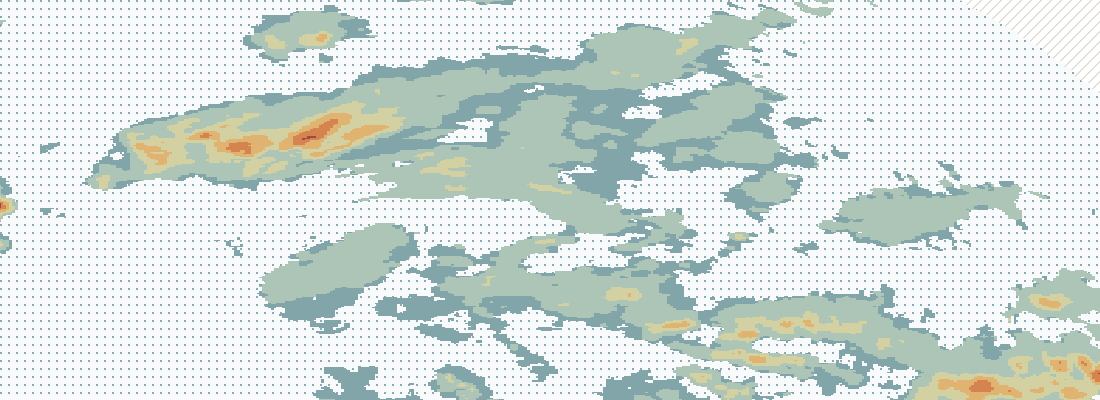
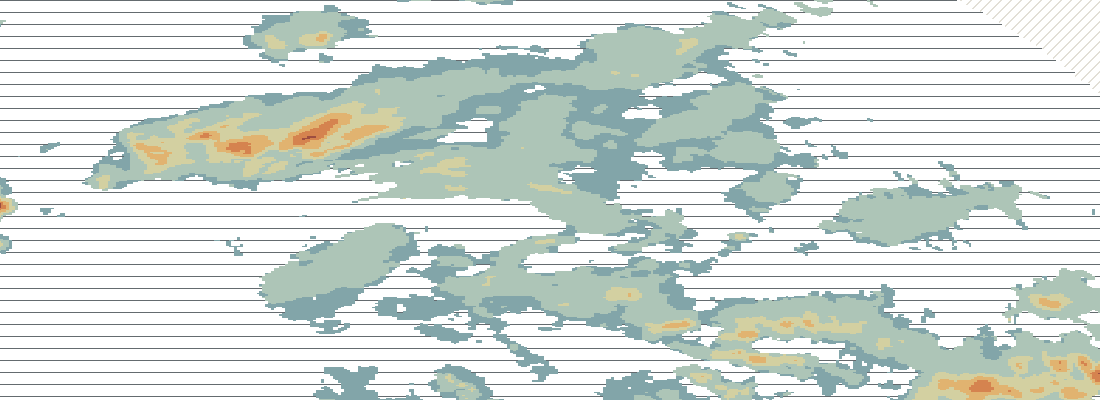
Refine weather map provenance, patterns and accessible inspection

diff --git a/docs/specimens/coastal-watch/source-notebook/index.html b/docs/specimens/coastal-watch/source-notebook/index.html
@@ -40,30 +40,33 @@
 <p id="cw-loading" role="status">Opening the saved weather passage…</p><button type="button" id="cw-retry" hidden>Try opening the passage again ↗</button>
 <div id="cw-workbench" hidden>
 <div class="cw-topline"><span class="cs-label">GULF OF FINLAND / A SAVED DAY</span><span id="cw-availability">Reading the archive coverage</span><span class="cw-live-label">ARCHIVE / NOT LIVE</span></div>
+<div class="cw-controls"><div class="cw-playback"><button type="button" id="cw-play" aria-pressed="false">Play the day <span aria-hidden="true">▶</span></button><button type="button" id="cw-back" aria-label="Back ten minutes">←</button><button type="button" id="cw-next" aria-label="Forward ten minutes">→</button></div><div class="cw-time-control"><div><label for="cw-second">Move through 11 November</label><span class="cw-clock-pair"><span id="cw-control-local" aria-hidden="true">12:00:06 EET</span><output id="cw-utc" for="cw-second" aria-live="off">10:00:06 UTC</output></span></div><input id="cw-second" type="range" min="0" max="86399" step="1" value="43206"><div class="cw-axis" aria-hidden="true"><span>00</span><span>06</span><span>12</span><span>18</span><span>24 EET</span></div></div></div>
+<div class="cw-coverage" aria-label="Coverage of the saved day"><div><span>Clouds <small>10 min</small></span><svg id="cw-cloud-ribbon" viewBox="0 0 1000 20" role="img" aria-label="Saved cloud product slots across the day"></svg></div><div><span>Radar <small>saved strip</small></span><svg id="cw-radar-ribbon" viewBox="0 0 1000 20" role="img" aria-label="Saved Estonian radar coverage"></svg></div><div><span>Buoy <small>hourly samples</small></span><svg id="cw-buoy-ribbon" viewBox="0 0 1000 20" role="img" aria-label="Selected buoy sample coverage, including gaps"></svg></div></div>
+<div class="cw-waypoints"><p id="cw-play-status" role="status">Saved frames. No interpolation.</p><button type="button" id="cw-radar-jump">Enter the radar strip ↗</button><button type="button" id="cw-gap-jump">Find a buoy gap ↗</button></div>
 <div class="cw-sky" id="cw-sky">
 <svg id="cw-cloud-map" viewBox="0 0 1100 400" role="img" aria-labelledby="cw-map-title cw-map-desc"><title id="cw-map-title">Clouds, estimated rain and buoy conditions above the Gulf of Finland</title><desc id="cw-map-desc">Three separately timed source records. Radar placement is inferred from source corners and Mercator projection. Not surveyed, not a navigation chart.</desc></svg>
 <div class="cw-sky-top"><span id="cw-cloud-stamp">EUMETSAT / PRODUCT TIME</span><span id="cw-map-rain-stamp">RAIN / PRODUCT END LABEL</span></div>
 <div class="cw-sky-bottom"><div><span class="cs-label">BROWSE TIME / HELSINKI</span><p class="cw-time"><output id="cw-local" for="cw-second" aria-live="off">12:00</output><span id="cw-local-seconds">:06 EET</span></p></div><div class="cw-cloud-caption"><p id="cw-cloud-age"></p><p>Pixel acquisition times remain unknown.</p></div></div>
 </div>
 <div class="cw-scene-message cw-cloud-alert" id="cw-cloud-message" role="status" hidden><p id="cw-cloud-message-title">Cloud frame unavailable.</p><span id="cw-cloud-message-detail"></span><button type="button" id="cw-cloud-retry" hidden>Try this saved frame again ↗</button></div>
-<div class="cw-map-toolbar"><div class="cw-layer-buttons" role="group" aria-label="Weather map layers"><button id="cw-layer-clouds" type="button" aria-pressed="true">Clouds</button><button id="cw-layer-rain" type="button" aria-pressed="true">Rain</button><button id="cw-layer-buoys" type="button" aria-pressed="true">Buoys</button></div><label class="cw-opacity" for="cw-rain-opacity">Rain opacity <output id="cw-opacity-value" for="cw-rain-opacity">85%</output><input id="cw-rain-opacity" type="range" min="10" max="100" step="5" value="85"></label><button id="cw-map-inspect" type="button" aria-pressed="false">Inspect a place ↗</button></div>
+<div class="cw-map-toolbar"><div class="cw-layer-buttons" role="group" aria-label="Weather map layers"><button id="cw-layer-clouds" type="button" aria-pressed="true">Clouds</button><button id="cw-layer-rain" type="button" aria-pressed="true">Rain</button><button id="cw-layer-buoys" type="button" aria-pressed="true">Buoys</button></div><label class="cw-opacity" for="cw-rain-opacity">Rain opacity <output id="cw-opacity-value" for="cw-rain-opacity">85%</output><input id="cw-rain-opacity" type="range" min="10" max="100" step="5" value="85"></label><button id="cw-map-inspect" type="button" aria-pressed="false">Inspect a place ↗</button><button id="cw-map-strip-play" type="button" aria-pressed="false">Play the rain strip ▶</button></div>
 <div class="cw-map-rate"><p>RADAR ESTIMATE / mm/h<br><span>Positive cells · nearest native sample</span></p><div class="cw-rate-scale" role="img" aria-label="Rain-rate colour classes in mm/h: greater than zero to 0.05, to 0.2, to 0.5, to 1, to 2, to 5, and greater than 5. Opacity blends these display colours with the cloud image; inspect the cell for its numeric estimate."><span>≤0.05</span><span>≤0.2</span><span>≤0.5</span><span>≤1</span><span>≤2</span><span>≤5</span><span>&gt;5</span></div></div>
 <div class="cw-map-clocks" role="group" aria-label="Separate clocks on the shared map"><p><span>01 / CLOUD PRODUCT</span><strong id="cw-map-cloud-clock">Opening</strong><small id="cw-map-cloud-state">Pixel acquisition unknown</small></p><p><span>02 / RAIN PRODUCT END</span><strong id="cw-map-radar-clock">Opening</strong><small id="cw-map-radar-state">Placement inferred · sweep unknown</small></p><p><span>03 / BUOY SAMPLE</span><strong id="cw-map-buoy-clock">Opening</strong><small id="cw-map-buoy-state">Hourly sample · spaces unmeasured</small></p></div>
-<p id="cw-map-status" class="cw-map-notice" role="status">Opening the saved rain layer. Every source keeps its own clock.</p>
-<div class="cw-map-inspection" id="cw-map-inspection" hidden><div><p class="cs-label">APPROXIMATE SOURCE CELL / NOT A POINT MEASUREMENT</p><p id="cw-map-cell-value" role="status" aria-live="polite">Choose a place on the map or use the native row and column controls below.</p><p id="cw-map-cell-context" class="cs-small"></p><p id="cw-map-cell-position" class="cs-small"></p></div><div><button type="button" id="cw-placement-compare" aria-pressed="false">Show alternative placement ↗</button><p class="cs-small">Solid cross: corner-anchored Mercator. Open circle: the agency’s PlateCarree example for the same cell. Their separation is a sensitivity check, not an error bound.</p><button id="cw-map-native-controls" type="button">Use native row / column controls ↓</button></div></div>
+<p id="cw-map-status" class="cw-map-notice" aria-live="off">Opening the saved rain layer. Every source keeps its own clock.</p>
+<div class="cw-map-pattern-key"><span><i class="cw-map-key-below" aria-hidden="true"></i>Ruled / below detection</span><span><i class="cw-map-key-missing" aria-hidden="true"></i>Diagonal / no data</span><span><i class="cw-map-key-positive" aria-hidden="true"></i>Solid / estimated rate</span></div>
+<p class="cw-map-notice">Approximate registration; scale convention unconfirmed. Crossed buoy = missing height. Arrows show where waves come from, not drift. Opacity blends display colours; inspect cells for numbers. A shared map does not make the instruments simultaneous.</p>
+<p id="cw-map-announcement" class="visually-hidden" role="status"></p>
+<div class="cw-map-inspection" id="cw-map-inspection" hidden><div><p class="cs-label">APPROXIMATE SOURCE CELL / NOT A POINT MEASUREMENT</p><p id="cw-map-cell-value" aria-live="off">Choose a place on the map or use the native row and column controls below.</p><p id="cw-map-cell-context" class="cs-small"></p><p id="cw-map-cell-position" class="cs-small"></p></div><div><button type="button" id="cw-placement-compare" aria-pressed="false">Show alternative placement ↗</button><p class="cs-small">Solid cross: corner-anchored Mercator. Open circle: the agency’s PlateCarree example for the same cell. Their separation is a sensitivity check, not an error bound.</p><button id="cw-map-native-controls" type="button">Use native row / column controls ↓</button></div></div>
 <div class="cw-map-buoys" role="group" aria-label="Select a buoy on the shared map"><button type="button" data-cw-map-buoy="103976"><span>01 / SUOMENLINNA</span><strong>Opening</strong><small>Sample clock follows</small></button><button type="button" data-cw-map-buoy="134221"><span>02 / GULF OF FINLAND</span><strong>Opening</strong><small>Sample clock follows</small></button><button type="button" data-cw-map-buoy="108495"><span>03 / ORRENGRUND</span><strong>Opening</strong><small>Sample clock follows</small></button></div>
-<p class="cw-credit">Contains modified EUMETSAT Meteosat product 2026 · <a href="https://www.eumetsat.int/legal-framework/data-policy">CC BY 4.0 ↗</a> · Radar: Keskkonnaagentuur / CC BY 4.0 · Buoys: FMI / CC BY 4.0 · Coastline: Natural Earth. Full map: 23–28.5° E / 59–61° N; phone crops the view. Originals retained.</p>
+<p class="cw-credit">Contains modified EUMETSAT Meteosat product 2026 · <a href="https://www.eumetsat.int/legal-framework/data-policy">CC BY 4.0 ↗</a> · Radar: Keskkonnaagentuur / CC BY 4.0 · Buoys: FMI / CC BY 4.0 · Coastline: Natural Earth. Full map: 23–28.5° E / 59–61° N; layout may crop the view. Originals retained.</p>
 <details id="cw-placement-details" class="cw-placement-details"><summary>Why the rain is placed here <span>METADATA-DERIVED / NOT SURVEYED</span></summary><div class="cw-placement-body"><div><h3>A place in the picture.<br><em>With the disagreement left in.</em></h3><p>The source says Mercator, supplies four corners, and declares metre scales. Most of the size difference is compatible with ground/projected scaling in Mercator near 60° N. The two axis ratios and the lower-right latitude still do not reconcile under one uniform scale. We anchor the grid to its lower-left and upper-right corners in the supplied Mercator projection; the scales and conflicting lower-right latitude are retained but unused.</p><p>The agency’s example uses the same bounds directly in longitude and latitude. You can inspect that alternative for a selected cell. Neither interpretation makes a recorded radar cell a rain gauge at a buoy.</p><p id="cw-placement-check"></p><p class="cs-small">The coverage edge is checked against the two documented 250 km radar ranges. This tests internal geometric consistency, using the same source mask. It is not independent geolocation validation, a calibration, or a probability of accuracy.</p></div><div><p class="cs-label">THE DECISION / REPRODUCIBLE, NOT CERTIFIED</p><dl id="cw-placement-facts"></dl><div class="cw-source-links"><a href="https://keskkonnaportaal.ee/et/avaandmed/radariandmestik/radariandmete-kirjeldus">Agency’s map example &amp; radar ranges ↗</a><a href="https://www.eumetnet.eu/wp-content/uploads/2026/01/ODIM_H5_v2.4.2_final.pdf">ODIM format / corners and row order ↗</a><a href="../../../data/coastal-weather/2026-11-11/notebook.json">All twelve placement checks &amp; source attributes ↗</a></div></div></div></details>
-<div class="cw-controls"><div class="cw-playback"><button type="button" id="cw-play" aria-pressed="false">Play the day <span aria-hidden="true">▶</span></button><button type="button" id="cw-back" aria-label="Back ten minutes">←</button><button type="button" id="cw-next" aria-label="Forward ten minutes">→</button></div><div class="cw-time-control"><div><label for="cw-second">Move through 11 November</label><span class="cw-clock-pair"><span id="cw-control-local" aria-hidden="true">12:00:06 EET</span><output id="cw-utc" for="cw-second" aria-live="off">10:00:06 UTC</output></span></div><input id="cw-second" type="range" min="0" max="86399" step="1" value="43206"><div class="cw-axis" aria-hidden="true"><span>00</span><span>06</span><span>12</span><span>18</span><span>24 EET</span></div></div></div>
-<div class="cw-coverage" aria-label="Coverage of the saved day"><div><span>Clouds <small>10 min</small></span><svg id="cw-cloud-ribbon" viewBox="0 0 1000 20" role="img" aria-label="Saved cloud product slots across the day"></svg></div><div><span>Radar <small>saved strip</small></span><svg id="cw-radar-ribbon" viewBox="0 0 1000 20" role="img" aria-label="Saved Estonian radar coverage"></svg></div><div><span>Buoy <small>hourly samples</small></span><svg id="cw-buoy-ribbon" viewBox="0 0 1000 20" role="img" aria-label="Selected buoy sample coverage, including gaps"></svg></div></div>
-<div class="cw-waypoints"><p id="cw-play-status" role="status">Saved frames. No interpolation.</p><button type="button" id="cw-radar-jump">Enter the radar strip ↗</button><button type="button" id="cw-gap-jump">Find a buoy gap ↗</button></div>
 <div class="cw-instruments">
 <article class="cw-radar-panel" aria-labelledby="cw-radar-title"><div class="cw-instrument-heading"><div><p class="cs-label">02 / THE SOUTHERN RADARS</p><h3 id="cw-radar-title">What comes<br><em>through the cloud.</em></h3></div><span class="cw-chip">12 SAVED COMPOSITES</span></div><p class="cw-source-clock" id="cw-radar-clock"></p>
 <div class="cw-radar-stage" id="cw-radar-stage"><img id="cw-radar-image" width="720" height="720" alt="" hidden><button type="button" id="cw-radar-pick" aria-label="Inspect a native radar cell; row and column controls follow" hidden><span id="cw-cell-marker" aria-hidden="true"></span></button><div class="cw-radar-corner" aria-hidden="true">NATIVE GRID<br>720 × 720</div><div class="cw-radar-empty" id="cw-radar-empty"><strong>Opening the native grid…</strong><span>Source clocks and coverage stay separate.</span></div></div>
 <p id="cw-radar-image-status" class="cs-small" role="status"></p><button type="button" id="cw-radar-retry" hidden>Try this saved radar image again ↗</button>
 <div class="cw-scan-controls"><label for="cw-scan">Choose a saved composite<select id="cw-scan"></select></label><div><button type="button" id="cw-scan-prev">← Previous composite</button><button type="button" id="cw-scan-next">Next composite →</button><button type="button" id="cw-scan-play" aria-pressed="false">Play all 12 composites ▶</button></div></div>
 <div class="cw-radar-legend"><span><i class="cw-key-below"></i>Below detection</span><span><i class="cw-key-missing"></i>No data</span><span><i class="cw-key-rate"></i>Estimated rain rate</span></div><p class="cw-band-label">Rain rate / mm/h · seven discrete bands</p><div class="cw-rate-scale" role="img" aria-label="Quantitative rain-rate bands in mm/h: greater than zero to 0.05, to 0.2, to 0.5, to 1, to 2, to 5, and greater than 5."><span>≤0.05</span><span>≤0.2</span><span>≤0.5</span><span>≤1</span><span>≤2</span><span>≤5</span><span>&gt;5</span></div>
-<p class="cw-caution">The native grid stays here. On the shared map, a corner-anchored Mercator registration places its cells approximately; source scales still conflict. <a href="#cw-placement-details">Inspect the placement decision ↑</a></p><p class="cs-small">Both views use nearest native-cell sampling. No rain rate is interpolated. Hatching on the map means no data; blue stippling means below detection. Neither is measured zero.</p>
+<p class="cw-caution">The native grid stays here. On the shared map, a corner-anchored Mercator registration places its cells approximately; source scales still conflict. <a href="#cw-placement-details">Inspect the placement decision ↑</a></p><p class="cs-small">Both views use nearest native-cell sampling. No rain rate is interpolated. Hatching on the map means no data; horizontal ruling means below detection. Neither is measured zero.</p>
 <details id="cw-cell-details"><summary>Inspect the original radar cells</summary><div class="cw-cell-controls"><label>Column<input id="cw-cell-x" type="number" min="0" max="719" step="1" value="350"></label><label>Row<input id="cw-cell-y" type="number" min="0" max="719" step="1" value="300"></label></div><output id="cw-cell-value" for="cw-cell-x cw-cell-y" aria-live="polite">Open a saved radar frame first.</output><button type="button" id="cw-cell-retry" hidden>Try reading the native cells again ↗</button><p class="cs-small">RATE / mm/h. A radar-derived intensity estimate, not accumulated rainfall. Code 0 means below detection; code 65535 means no data. Neither is a measured zero.</p></details>
 <p class="cw-source-credit">Keskkonnaagentuur / CC BY 4.0. Harku + Sürgavere → one derived composite.</p></article>
 <article class="cw-sea-panel" aria-labelledby="cw-sea-title"><div class="cw-instrument-heading"><div><p class="cs-label">03 / AT THE SURFACE</p><h3 id="cw-sea-title">A direction.<br><em>A little time between.</em></h3></div></div>

diff --git a/docs/assets/coastal-weather.css b/docs/assets/coastal-weather.css
@@ -38,6 +38,7 @@
 .cw-sky[data-cloud-layer=false] #cw-cloud-stamp,.cw-sky[data-cloud-layer=false] .cw-cloud-caption{visibility:hidden}
 .cw-map-inspecting{cursor:crosshair}
 .cw-map-buoy-target{cursor:pointer}
+.cw-wave-hit{fill:transparent;pointer-events:all}
 .cw-wave-dot{fill:#142b33;stroke:#eed1a0;stroke-width:1.5}
 .cw-wave-missing{stroke:#fff0ce;stroke-width:1.5;fill:none}
 [data-missing-height=true] .cw-wave-dot{fill:#142b33;fill-opacity:.5;stroke-dasharray:2 2}
@@ -60,6 +61,11 @@
 .cw-map-clocks span,.cw-map-clocks small{display:block;font:10px/1.7 var(--mono);color:var(--secondary)}
 .cw-map-clocks strong{font:24px/1.4 var(--mono);font-weight:400;display:block;margin:6px 0;color:var(--ink)}
 .cw-map-notice{margin:0;padding:14px 26px;font:11px/1.9 var(--mono);color:var(--secondary);border-bottom:1px solid var(--line-soft);max-width:none}
+.cw-map-pattern-key{display:flex;flex-wrap:wrap;gap:12px 26px;padding:15px 26px;font:11px/1.8 var(--mono);color:var(--secondary);border-bottom:1px solid var(--line-soft)}
+.cw-map-pattern-key span{display:flex;align-items:center;gap:8px}.cw-map-pattern-key i{width:24px;height:24px;display:inline-block;border:1px solid var(--line);background-color:#8b9698}
+.cw-map-key-below{background-image:repeating-linear-gradient(0deg,transparent 0 7px,#232e33b4 7px 8px)}
+.cw-map-key-missing{background-image:repeating-linear-gradient(135deg,transparent 0 6px,#bcb4a0 6px 8px)}
+.cw-map-pattern-key .cw-map-key-positive{background:#82a5a9}
 .cw-map-buoys{display:grid;grid-template-columns:repeat(3,minmax(0,1fr));gap:0;border-block:1px solid var(--line)}
 .cw-passage .cw-map-buoys button{display:block;text-align:left;border:0;border-right:1px solid var(--line);padding:23px 26px;white-space:normal;background:var(--surface);color:var(--ink)}
 .cw-passage .cw-map-buoys button:last-child{border-right:0}
@@ -91,11 +97,13 @@
 @media(max-width:760px){
  .cw-sky-top{flex-direction:column;gap:3px;font-size:10px}
  .cw-map-toolbar{flex-wrap:wrap;gap:15px;padding:16px 18px}.cw-layer-buttons{flex:1}.cw-layer-buttons button{flex:1;padding-inline:12px}
+ .cw-map-toolbar>#cw-map-strip-play,.cw-map-toolbar>#cw-map-inspect{flex:1;min-width:130px}
  .cw-opacity{width:100%;order:3}.cw-opacity input{min-height:32px}
  .cw-map-clocks{grid-template-columns:1fr}.cw-map-clocks p{display:grid;grid-template-columns:1fr 1fr;gap:5px 12px;padding:14px 18px;border-right:0;border-bottom:1px solid var(--line-soft)}
  .cw-map-rate{grid-template-columns:1fr;gap:12px;padding:16px 18px}.cw-map-rate>p{font-size:11px}
  .cw-map-clocks strong{font-size:18px;text-align:right;margin:0}.cw-map-clocks small{grid-column:1/-1;font-size:11px}.cw-map-clocks span{font-size:10px;align-self:center}
  .cw-map-notice{padding:14px 18px}.cw-map-buoys{grid-template-columns:1fr}
+ .cw-map-pattern-key{padding:15px 18px;gap:10px}
  .cw-passage .cw-map-buoys button{border-right:0;border-bottom:1px solid var(--line-soft);padding:20px 18px}
  .cw-passage .cw-map-buoys button[aria-pressed=true]{box-shadow:inset 3px 0 0 var(--gold-bright)}
  .cw-map-buoys strong{font-size:31px;margin:4px 0}.cw-map-buoys span,.cw-map-buoys small{font-size:11px}

diff --git a/scripts/coastal_radar_placement.py b/scripts/coastal_radar_placement.py
@@ -55,6 +55,8 @@ def summary(w,matrix):
         controls.append({'column':col,'row':row,'longitude':lon,'latitude':lat,'agencyLatitude':float(alternative),
                          'alternativeSeparationMetres':round(geod.inv(lon,lat,lon,float(alternative))[2],3)})
     ratios=np.array([w['xscale']*720/(right-left),w['yscale']*720/(top-bottom)])
+    rows=np.arange(720);lons,lats=coordinate(w,np.full(720,350),rows);_,alternates=coordinate(w,np.full(720,350),rows,True)
+    in_map=(lats>=59)&(lats<=61);separations=geod.inv(lons[in_map],lats[in_map],lons[in_map],alternates[in_map])[2]
     return {'method':METHOD,'presentation':'corner-anchored Mercator registration','verified':False,
         'placementStatus':'metadata-derived / footprint checked / not surveyed',
         'metadataReconciled':False,'providerConfirmed':False,'surveyValidated':False,
@@ -65,10 +67,11 @@ def summary(w,matrix):
         'declaredToCornerScaleRatios':ratios.tolist(),
         'sphericalEquivalentTrueScaleLatitudesDegrees':np.degrees(np.arccos(ratios)).tolist(),
         'axisScaleRatioDisagreementPercent':float((ratios.max()/ratios.min()-1)*100),
+        'mapLatitudeSensitivityMetres':{'minimum':round(float(separations.min()),3),'maximum':round(float(separations.max()),3),'latitudeBand':[59,61],'meaning':'Separation between two interpretations for native cell centres, not an accuracy interval.'},
         'scaleDiagnosticLimit':'Most of the factor-of-two difference is compatible with Mercator ground/projected scale near 60 N. This does not confirm a ground-scale convention; differing axis ratios and the LR latitude remain unexplained. Literal-metre interpretation is a diagnostic, not evidence of a 58 km geolocation error.',
         'projectedCornerSpanMetres':[right-left,top-bottom],
         'unusedLowerRightLatitude':w['LR_lat'],
-        'selection':'Use supplied Mercator CRS, LL/UR outer pixel corners and native north-to-south row order. Infer projected increments from bounds. Do not use contradictory metre scales or LR latitude.',
+        'selection':'Use supplied Mercator CRS, LL/UR outer pixel corners and native north-to-south row order. Infer projected increments from bounds. Declared scales may be ground distances but their convention is unconfirmed; do not use them or the conflicting LR latitude.',
         'alternative':'Agency example uses the same LL/UR rectangle directly in PlateCarree. Inspect its alternative latitude for the same native cell. This is sensitivity to an interpretation, not an error bound.',
         'evidenceUrls':[AGENCY,ODIM,'https://proj.org/en/stable/operations/projections/merc.html'],
         'radars':RADARS,'footprintChecks':checks,
@@ -87,9 +90,9 @@ def crop(w,matrix,colours,bbox,width=1100,height=400):
     out[valid]=colours[y[valid],x[valid]]
     raw=np.full((height,width),65535,dtype=np.float32);raw[valid]=matrix[y[valid],x[valid]]
     row,col=np.indices((height,width));hatch=(row+col)%10<2
-    dots=(row%8<2)&(col%8<2)
-    out[raw==0]=[108,153,160,12]
-    out[(raw==0)&dots]=[108,153,160,210]
+    ruled=row%12==0
+    out[raw==0]=[0,0,0,0]
+    out[(raw==0)&ruled]=[35,46,51,180]
     out[(raw==65535)&hatch]=[188,180,160,110]
     out[(raw==65535)&~hatch]=[0,0,0,0]
     return out.tobytes()

diff --git a/scripts/build_coastal_weather.py b/scripts/build_coastal_weather.py
@@ -189,7 +189,7 @@ def main():
         else:(OUT/name).write_bytes(data)
     inventory=[{'path':p.relative_to(ROOT/'docs').as_posix(),'bytes':p.stat().st_size,'sha256':sha(p.read_bytes())} for p in sorted(OUT.rglob('*'),key=lambda p:p.relative_to(OUT).as_posix()) if p.is_file()]
     provenance={'schema':'mg.coastal-weather-provenance.v1','dateLocal':'2026-11-11',
-        'transformation':'Cloud PNGs unchanged from WMS. Radar float32 cells copied in native order to deterministic gzip. Native palette PNGs preserved; map PNGs use corner-anchored ellipsoidal Mercator registration and nearest native-cell sampling into the CRS:84 cloud crop. No-data hatching and below-detection stippling are distinct display classes, not physical values. All source attributes retained; unconfirmed scale convention and conflicting LR latitude excluded explicitly. Buoy samples unchanged.',
+        'transformation':'Cloud PNGs unchanged from WMS. Radar float32 cells copied in native order to deterministic gzip. Native palette PNGs preserved; map PNGs use corner-anchored ellipsoidal Mercator registration and nearest native-cell sampling into the CRS:84 cloud crop. No-data hatching and below-detection horizontal ruling are distinct display classes, not physical values. All source attributes retained; unconfirmed scale convention and conflicting LR latitude excluded explicitly. Buoy samples unchanged.',
         'paletteRateMMH':[{'maximumInclusiveMMH':upper,'colour':colour} for upper,colour in PALETTE]+[{'minimumExclusiveMMH':5,'maximumInclusiveMMH':None,'colour':ABOVE_COLOUR}],
         'scope':'Environmental context. No vessel association, incident attribution or damage assessment.',
         'clockMeaning':'Declared product labels and supplied radar product intervals kept separate from retrieval receipts. Underlying radar sweep, per-pixel acquisition, first publication and original station reception remain unknown.',

diff --git a/docs/data/coastal-weather/2026-11-11/README.md b/docs/data/coastal-weather/2026-11-11/README.md
@@ -26,9 +26,9 @@ Most of the roughly twofold difference between declared and projected metres is 
 
 All twelve matrices carry a geometric consistency check. We select data cells adjacent to no-data in four-neighbour topology, excluding the outer two rows/columns that truncate the coverage. Each boundary-cell centre is compared by WGS84 geodesic distance to the nearer of the two agency-documented radar positions and their nominal 250 km ranges. For the first composite, the median absolute range residual is approximately 0.512 km with corner-anchored Mercator, 2.246 km with the agency PlateCarree example, and 57.816 km when the metre scales are used literally. This supports a choice among these interpretations; the source mask is not independent geolocation evidence, and nominal radar range, beam geometry and quantisation do not establish actual positional accuracy. No calibration is fitted. Every frame's sample count, median, 90th percentile and maximum residual are saved in `georeferencing.footprintChecks`.
 
-The two corner-based candidates share longitudes, so the range test does not discriminate east-west placement. Their roughly 8 km latitude separation inside the map can coexist with small range residuals. Northern/southern coverage extremes lie beyond the saved rectangle and are excluded. The best residual approaches the roughly 0.8 km ground-cell quantisation; it must not be read as sub-kilometre geolocation accuracy.
+The two corner-based candidates share longitudes, so the range test does not discriminate east-west placement. Their roughly 4–11 km latitude separation across the map can coexist with small range residuals. Northern/southern coverage extremes lie beyond the saved rectangle and are excluded. The best residual approaches the roughly 0.8 km ground-cell quantisation; it must not be read as sub-kilometre geolocation accuracy.
 
-The geographic map PNGs use inverse mapping from each 1,100 × 400 CRS:84 output-pixel centre into this projected native grid, then select the containing native cell. Rain rate is never interpolated. Positive cells retain the seven native palette classes. Missing cells have a diagonal display hatch; below-detection cells have blue stippling, so they differ by pattern rather than only opacity. Neither supplies a physical rain rate. Opacity blends display classes with the cloud image; numeric estimates come from the native-cell inspector. Original native PNGs and float32 files stay unchanged and separately inspectable. Approximate cell centres and the alternative placement are exported with unknown accuracy. A mapped cell does not measure surface rainfall at a buoy. Scripts `coastal_radar_placement.py` and `build_coastal_weather.py` reproduce this decision offline, including independent Pyproj coordinate controls checked by the browser model tests.
+The geographic map PNGs use inverse mapping from each 1,100 × 400 CRS:84 output-pixel centre into this projected native grid, then select the containing native cell. Rain rate is never interpolated. Positive cells retain the seven native palette classes. Missing cells have a diagonal display hatch; below-detection cells have neutral horizontal ruling, so they differ by pattern rather than only opacity. Neither supplies a physical rain rate. Opacity blends display classes with the cloud image; numeric estimates come from the native-cell inspector. Original native PNGs and float32 files stay unchanged and separately inspectable. Approximate cell centres and the alternative placement are exported with unknown accuracy. A mapped cell does not measure surface rainfall at a buoy. Scripts `coastal_radar_placement.py` and `build_coastal_weather.py` reproduce this decision offline, including independent Pyproj coordinate controls checked by the browser model tests.
 
 Wave arrows transform the reported geographic from-bearing into the local tangent of this equal-degree CRS:84 crop, using ellipsoidal meridional and prime-vertical radii. A raw compass angle would be wrong against this non-conformal coastline. Arrow length is schematic; no wave velocity is inferred. Crossed buoy marks mean missing height; absence of an arrow means missing direction. Selecting a buoy uses its exact FMI station coordinates, while the nearby radar cell retains approximate placement and its own product clock.
 
